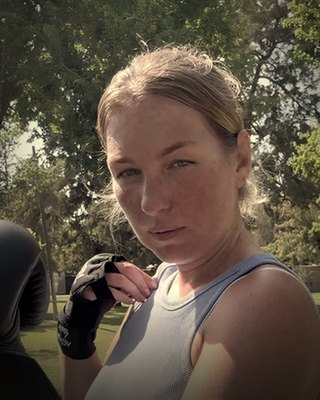
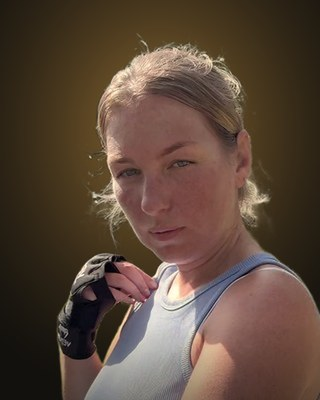
Reviews: all three trainees cut out onto the same dark background with a warm gold glow
Claude-Session: https://claude.ai/code/session_019R6qCBKgEvb3qXCynPtqmv

diff --git a/index.html b/index.html
@@ -26,9 +26,9 @@
   <link rel="apple-touch-icon" href="/apple-touch-icon.png">
   <link rel="preload" href="/fonts/heebo.woff" as="font" type="font/woff" crossorigin>
   <link rel="preload" href="/fonts/karantina-bold.woff" as="font" type="font/woff" crossorigin>
-  <link rel="stylesheet" href="/assets/site.css?v=79">
-  <script src="/config.js?v=79" defer></script>
-  <script src="/assets/site.js?v=79" defer></script>
+  <link rel="stylesheet" href="/assets/site.css?v=80">
+  <script src="/config.js?v=80" defer></script>
+  <script src="/assets/site.js?v=80" defer></script>
 <script type="application/ld+json">{"@context": "https://schema.org", "@type": ["SportsActivityLocation", "LocalBusiness"], "name": "BoxingRise", "description": "אימון אגרוף אישי לנשים, אחד על אחד, בפארקים בתל אביב והמרכז. בלי ניסיון ובלי התחייבות. אימון ניסיון ב־49 ₪.", "url": "https://boxingrise.com/", "image": "https://boxingrise.com/media/og.jpg", "logo": "https://boxingrise.com/brand/icon-512.png", "telephone": "+972502734456", "priceRange": "₪₪", "founder": {"@type": "Person", "name": "Avi Anihovich", "alternateName": "Aviko"}, "areaServed": [{"@type": "City", "name": "Tel Aviv-Yafo"}, {"@type": "AdministrativeArea", "name": "Central District, Israel"}], "address": {"@type": "PostalAddress", "addressLocality": "Tel Aviv-Yafo", "addressCountry": "IL"}, "geo": {"@type": "GeoCoordinates", "latitude": 32.0995, "longitude": 34.8137}, "sport": "Boxing", "inLanguage": "he", "paymentAccepted": "Cash, Bit, PayBox", "currenciesAccepted": "ILS", "makesOffer": {"@type": "Offer", "name": "אימון ניסיון", "price": "49", "priceCurrency": "ILS"}}</script>
 </head>
 <body class="home">
@@ -47,7 +47,7 @@
 <main id="main">
   <section class="hero" aria-labelledby="hero-h">
     <div class="hero-media" aria-hidden="true">
-      <video class="hero-video" autoplay muted loop playsinline preload="metadata" poster="/media/hero-mont-m.jpg?v=79" data-poster-wide="/media/hero-mont-w.jpg?v=79"><source src="/media/hero-mont-m.mp4?v=79" type="video/mp4" media="(max-width: 999px)"><source src="/media/hero-mont-w.mp4?v=79" type="video/mp4"></video>
+      <video class="hero-video" autoplay muted loop playsinline preload="metadata" poster="/media/hero-mont-m.jpg?v=80" data-poster-wide="/media/hero-mont-w.jpg?v=80"><source src="/media/hero-mont-m.mp4?v=80" type="video/mp4" media="(max-width: 999px)"><source src="/media/hero-mont-w.mp4?v=80" type="video/mp4"></video>
       <div class="hero-shade"></div>
       <div class="hero-fx"></div>
     </div>
@@ -66,7 +66,7 @@
         <div><p class="lead">אגרוף קלאסי, כמו שמתאמנים בו באמת: עבודה על כריות, תנועת רגליים ושמירה. כל אימון נבנה במיוחד בשבילך, לפי הרמה והקצב שלך.</p><dl class="facts reveal"><div class="fact"><dt>אישי לגמרי</dt><dd><span class="num" data-count="1:1" dir="ltr">1:1</span></dd></div><div class="fact"><dt>דקות לאימון</dt><dd><span class="num" data-count="60" dir="ltr">60</span></dd></div><div class="fact"><dt>ניסיון נדרש</dt><dd><span class="num" data-count="0" dir="ltr">0</span></dd></div></dl></div>
       </div>
       <h3 class="h3 rounds-h">ככה נראית שעה איתי</h3>
-      <ol class="rounds" tabindex="0" aria-label="ככה נראית שעה איתי"><li class="round"><figure><video class="round-img js-clip" muted loop playsinline preload="none" poster="/media/clip-technique.jpg?v=79" width="480" height="600" aria-label="המתאמנת והמאמן עומדים זה מול זה בעמידת אגרוף"><source src="/media/clip-technique.mp4?v=79" type="video/mp4"></video><figcaption><h4>טכניקה</h4><p>לומדים לעמוד בשמירה ולזוז נכון, עוד לפני המכה הראשונה. בקצב שלך, עם תיקון בזמן אמת.</p></figcaption></figure></li><li class="round"><figure><video class="round-img js-clip" muted loop playsinline preload="none" poster="/media/clip-power.jpg?v=79" width="480" height="600" aria-label="המתאמנת עושה שכיבות סמיכה על הדשא בפארק"><source src="/media/clip-power.mp4?v=79" type="video/mp4"></video><figcaption><h4>כוח וכושר</h4><p>שכיבות סמיכה ותרגילי כוח בין סבבי האגרוף. כאן הגוף מתחזק והדופק עולה.</p></figcaption></figure></li><li class="round"><figure><video class="round-img js-clip" muted loop playsinline preload="none" poster="/media/clip-pads.jpg?v=79" width="480" height="600" aria-label="עבודת כריות: המתאמנת מכה, המאמן מחזיק כריות"><source src="/media/clip-pads.mp4?v=79" type="video/mp4"></video><figcaption><h4>כריות</h4><p>מכות לכריות שהמאמן מחזיק, ומחברים אותן לקומבינציות. כאן זה מתחיל להרגיש כמו אגרוף.</p></figcaption></figure></li></ol>
+      <ol class="rounds" tabindex="0" aria-label="ככה נראית שעה איתי"><li class="round"><figure><video class="round-img js-clip" muted loop playsinline preload="none" poster="/media/clip-technique.jpg?v=80" width="480" height="600" aria-label="המתאמנת והמאמן עומדים זה מול זה בעמידת אגרוף"><source src="/media/clip-technique.mp4?v=80" type="video/mp4"></video><figcaption><h4>טכניקה</h4><p>לומדים לעמוד בשמירה ולזוז נכון, עוד לפני המכה הראשונה. בקצב שלך, עם תיקון בזמן אמת.</p></figcaption></figure></li><li class="round"><figure><video class="round-img js-clip" muted loop playsinline preload="none" poster="/media/clip-power.jpg?v=80" width="480" height="600" aria-label="המתאמנת עושה שכיבות סמיכה על הדשא בפארק"><source src="/media/clip-power.mp4?v=80" type="video/mp4"></video><figcaption><h4>כוח וכושר</h4><p>שכיבות סמיכה ותרגילי כוח בין סבבי האגרוף. כאן הגוף מתחזק והדופק עולה.</p></figcaption></figure></li><li class="round"><figure><video class="round-img js-clip" muted loop playsinline preload="none" poster="/media/clip-pads.jpg?v=80" width="480" height="600" aria-label="עבודת כריות: המתאמנת מכה, המאמן מחזיק כריות"><source src="/media/clip-pads.mp4?v=80" type="video/mp4"></video><figcaption><h4>כריות</h4><p>מכות לכריות שהמאמן מחזיק, ומחברים אותן לקומבינציות. כאן זה מתחיל להרגיש כמו אגרוף.</p></figcaption></figure></li></ol>
     </div>
   </section>
 
@@ -78,7 +78,7 @@
     </div>
   </section>
 
-  <section class="sec reviews" id="reviews" aria-labelledby="rv-h"><div class="wrap"><p class="tag">הן כבר התחילו</p><h2 class="h2" id="rv-h">ככה הן <span class="g">יוצאות מהאימון.</span></h2><div class="rv-grid"><figure class="rv"><img class="rv-photo" src="/media/review-victoria.jpg?v=79" alt="ויקטוריה" width="320" height="400" loading="lazy"><div class="rv-body"><blockquote><p class="rv-q">יצאתי ממנו עוצמתית, משוחררת ועם טעם של עוד.</p></blockquote><figcaption><b>ויקטוריה</b> · <span>התחילה בלי רקע</span></figcaption><details class="rv-more"><summary>להמלצה המלאה</summary><p>הגעתי בלי שום רקע ובלי ביטחון, וכבר באימון הראשון אבי גרם לי להרגיש הכי בנוח בעולם – יצאתי ממנו עוצמתית, משוחררת ועם טעם של עוד!</p></details></div></figure><figure class="rv"><img class="rv-photo" src="/media/review-maria.jpg?v=79" alt="מריה" width="320" height="400" loading="lazy"><div class="rv-body"><blockquote><p class="rv-q">האימונים האישיים עם אבי הביאו אותי לכושר ולחיטוב הכי חזק שהייתי בהם.</p></blockquote><figcaption><b>מריה</b> · <span>אחרי שנים בחדרי כושר</span></figcaption><details class="rv-more"><summary>להמלצה המלאה</summary><p>אחרי שנים בחדרי כושר, האימונים האישיים עם אבי הביאו אותי לכושר ולחיטוב הכי חזק שהייתי בהם – אנרגיה מטורפת וסבלנות מקצועית שאין כמותה.</p></details></div></figure><figure class="rv"><img class="rv-photo" src="/media/review-neta.jpg?v=79" alt="נטע" width="320" height="400" loading="lazy"><div class="rv-body"><blockquote><p class="rv-q">הזמן היחיד ביום שבו אני משחררת את כל הסטרס.</p></blockquote><figcaption><b>נטע</b> · <span>מגיעה לפרוק את השבוע</span></figcaption><details class="rv-more"><summary>להמלצה המלאה</summary><p>שעת אימון אצל אבי היא הזמן היחיד ביום שבו אני משחררת את כל הסטרס, מתנתקת מהעולם וחוזרת הביתה מחוזקת בראש ובגוף.</p></details></div></figure></div><div class="rv-foot reveal"><p>רוצה להרגיש ככה?</p><a class="btn btn-gold magnetic js-wa" href="https://wa.me/972502734456?text=%D7%94%D7%99%D7%99%20%D7%90%D7%91%D7%99%2C%20%D7%90%D7%A9%D7%9E%D7%97%20%D7%9C%D7%A7%D7%91%D7%95%D7%A2%20%D7%90%D7%99%D7%9E%D7%95%D7%9F%20%D7%A0%D7%99%D7%A1%D7%99%D7%95%D7%9F%20%D7%91-BoxingRise%20%2849%20%E2%82%AA%29" target="_blank" rel="noopener" ><span>לאימון ניסיון ב־49 ₪</span><span class="sr-only"> (נפתח בוואטסאפ)</span></a></div></div></section>
+  <section class="sec reviews" id="reviews" aria-labelledby="rv-h"><div class="wrap"><p class="tag">הן כבר התחילו</p><h2 class="h2" id="rv-h">ככה הן <span class="g">יוצאות מהאימון.</span></h2><div class="rv-grid"><figure class="rv"><img class="rv-photo" src="/media/review-victoria.jpg?v=80" alt="ויקטוריה" width="320" height="400" loading="lazy"><div class="rv-body"><blockquote><p class="rv-q">יצאתי ממנו עוצמתית, משוחררת ועם טעם של עוד.</p></blockquote><figcaption><b>ויקטוריה</b> · <span>התחילה בלי רקע</span></figcaption><details class="rv-more"><summary>להמלצה המלאה</summary><p>הגעתי בלי שום רקע ובלי ביטחון, וכבר באימון הראשון אבי גרם לי להרגיש הכי בנוח בעולם – יצאתי ממנו עוצמתית, משוחררת ועם טעם של עוד!</p></details></div></figure><figure class="rv"><img class="rv-photo" src="/media/review-maria.jpg?v=80" alt="מריה" width="320" height="400" loading="lazy"><div class="rv-body"><blockquote><p class="rv-q">האימונים האישיים עם אבי הביאו אותי לכושר ולחיטוב הכי חזק שהייתי בהם.</p></blockquote><figcaption><b>מריה</b> · <span>אחרי שנים בחדרי כושר</span></figcaption><details class="rv-more"><summary>להמלצה המלאה</summary><p>אחרי שנים בחדרי כושר, האימונים האישיים עם אבי הביאו אותי לכושר ולחיטוב הכי חזק שהייתי בהם – אנרגיה מטורפת וסבלנות מקצועית שאין כמותה.</p></details></div></figure><figure class="rv"><img class="rv-photo" src="/media/review-neta.jpg?v=80" alt="נטע" width="320" height="400" loading="lazy"><div class="rv-body"><blockquote><p class="rv-q">הזמן היחיד ביום שבו אני משחררת את כל הסטרס.</p></blockquote><figcaption><b>נטע</b> · <span>מגיעה לפרוק את השבוע</span></figcaption><details class="rv-more"><summary>להמלצה המלאה</summary><p>שעת אימון אצל אבי היא הזמן היחיד ביום שבו אני משחררת את כל הסטרס, מתנתקת מהעולם וחוזרת הביתה מחוזקת בראש ובגוף.</p></details></div></figure></div><div class="rv-foot reveal"><p>רוצה להרגיש ככה?</p><a class="btn btn-gold magnetic js-wa" href="https://wa.me/972502734456?text=%D7%94%D7%99%D7%99%20%D7%90%D7%91%D7%99%2C%20%D7%90%D7%A9%D7%9E%D7%97%20%D7%9C%D7%A7%D7%91%D7%95%D7%A2%20%D7%90%D7%99%D7%9E%D7%95%D7%9F%20%D7%A0%D7%99%D7%A1%D7%99%D7%95%D7%9F%20%D7%91-BoxingRise%20%2849%20%E2%82%AA%29" target="_blank" rel="noopener" ><span>לאימון ניסיון ב־49 ₪</span><span class="sr-only"> (נפתח בוואטסאפ)</span></a></div></div></section>
 
   <section class="sec about alt" id="about" aria-labelledby="about-h">
     <div class="grass" aria-hidden="true"></div>

diff --git a/en/index.html b/en/index.html
@@ -26,9 +26,9 @@
   <link rel="apple-touch-icon" href="/apple-touch-icon.png">
   <link rel="preload" href="/fonts/heebo.woff" as="font" type="font/woff" crossorigin>
   <link rel="preload" href="/fonts/karantina-bold.woff" as="font" type="font/woff" crossorigin>
-  <link rel="stylesheet" href="/assets/site.css?v=79">
-  <script src="/config.js?v=79" defer></script>
-  <script src="/assets/site.js?v=79" defer></script>
+  <link rel="stylesheet" href="/assets/site.css?v=80">
+  <script src="/config.js?v=80" defer></script>
+  <script src="/assets/site.js?v=80" defer></script>
 <script type="application/ld+json">{"@context": "https://schema.org", "@type": ["SportsActivityLocation", "LocalBusiness"], "name": "BoxingRise", "description": "Private one-on-one boxing for women in parks across Tel Aviv and central Israel. No experience, no commitment. Trial session 49 ILS.", "url": "https://boxingrise.com/en", "image": "https://boxingrise.com/media/og.jpg", "logo": "https://boxingrise.com/brand/icon-512.png", "telephone": "+972502734456", "priceRange": "₪₪", "founder": {"@type": "Person", "name": "Avi Anihovich", "alternateName": "Aviko"}, "areaServed": [{"@type": "City", "name": "Tel Aviv-Yafo"}, {"@type": "AdministrativeArea", "name": "Central District, Israel"}], "address": {"@type": "PostalAddress", "addressLocality": "Tel Aviv-Yafo", "addressCountry": "IL"}, "geo": {"@type": "GeoCoordinates", "latitude": 32.0995, "longitude": 34.8137}, "sport": "Boxing", "inLanguage": "en", "paymentAccepted": "Cash, Bit, PayBox", "currenciesAccepted": "ILS", "makesOffer": {"@type": "Offer", "name": "Trial session", "price": "49", "priceCurrency": "ILS"}}</script>
 </head>
 <body class="home">
@@ -47,7 +47,7 @@
 <main id="main">
   <section class="hero" aria-labelledby="hero-h">
     <div class="hero-media" aria-hidden="true">
-      <video class="hero-video" autoplay muted loop playsinline preload="metadata" poster="/media/hero-mont-m.jpg?v=79" data-poster-wide="/media/hero-mont-w.jpg?v=79"><source src="/media/hero-mont-m.mp4?v=79" type="video/mp4" media="(max-width: 999px)"><source src="/media/hero-mont-w.mp4?v=79" type="video/mp4"></video>
+      <video class="hero-video" autoplay muted loop playsinline preload="metadata" poster="/media/hero-mont-m.jpg?v=80" data-poster-wide="/media/hero-mont-w.jpg?v=80"><source src="/media/hero-mont-m.mp4?v=80" type="video/mp4" media="(max-width: 999px)"><source src="/media/hero-mont-w.mp4?v=80" type="video/mp4"></video>
       <div class="hero-shade"></div>
       <div class="hero-fx"></div>
     </div>
@@ -66,7 +66,7 @@
         <div><p class="lead">Classic boxing, the way it&#x27;s really trained: pad work, footwork and guard. Every session is built just for you, at your level and pace.</p><dl class="facts reveal"><div class="fact"><dt>fully personal</dt><dd><span class="num" data-count="1:1" dir="ltr">1:1</span></dd></div><div class="fact"><dt>minutes per session</dt><dd><span class="num" data-count="60" dir="ltr">60</span></dd></div><div class="fact"><dt>experience needed</dt><dd><span class="num" data-count="0" dir="ltr">0</span></dd></div></dl></div>
       </div>
       <h3 class="h3 rounds-h">What an hour with me looks like</h3>
-      <ol class="rounds" tabindex="0" aria-label="What an hour with me looks like"><li class="round"><figure><video class="round-img js-clip" muted loop playsinline preload="none" poster="/media/clip-technique.jpg?v=79" width="480" height="600" aria-label="The trainee and coach facing each other in boxing stance"><source src="/media/clip-technique.mp4?v=79" type="video/mp4"></video><figcaption><h4>Technique</h4><p>Learning to stand in guard and move right, before the first punch. At your pace, corrected in real time.</p></figcaption></figure></li><li class="round"><figure><video class="round-img js-clip" muted loop playsinline preload="none" poster="/media/clip-power.jpg?v=79" width="480" height="600" aria-label="The trainee doing push-ups on the grass in the park"><source src="/media/clip-power.mp4?v=79" type="video/mp4"></video><figcaption><h4>Strength &amp; fitness</h4><p>Push-ups and strength work between boxing rounds. This is where your body gets stronger.</p></figcaption></figure></li><li class="round"><figure><video class="round-img js-clip" muted loop playsinline preload="none" poster="/media/clip-pads.jpg?v=79" width="480" height="600" aria-label="Pad work: the trainee punches, the coach holds the pads"><source src="/media/clip-pads.mp4?v=79" type="video/mp4"></video><figcaption><h4>Pads</h4><p>Punches into the pads I hold, built into combinations. This is where it starts to feel like boxing.</p></figcaption></figure></li></ol>
+      <ol class="rounds" tabindex="0" aria-label="What an hour with me looks like"><li class="round"><figure><video class="round-img js-clip" muted loop playsinline preload="none" poster="/media/clip-technique.jpg?v=80" width="480" height="600" aria-label="The trainee and coach facing each other in boxing stance"><source src="/media/clip-technique.mp4?v=80" type="video/mp4"></video><figcaption><h4>Technique</h4><p>Learning to stand in guard and move right, before the first punch. At your pace, corrected in real time.</p></figcaption></figure></li><li class="round"><figure><video class="round-img js-clip" muted loop playsinline preload="none" poster="/media/clip-power.jpg?v=80" width="480" height="600" aria-label="The trainee doing push-ups on the grass in the park"><source src="/media/clip-power.mp4?v=80" type="video/mp4"></video><figcaption><h4>Strength &amp; fitness</h4><p>Push-ups and strength work between boxing rounds. This is where your body gets stronger.</p></figcaption></figure></li><li class="round"><figure><video class="round-img js-clip" muted loop playsinline preload="none" poster="/media/clip-pads.jpg?v=80" width="480" height="600" aria-label="Pad work: the trainee punches, the coach holds the pads"><source src="/media/clip-pads.mp4?v=80" type="video/mp4"></video><figcaption><h4>Pads</h4><p>Punches into the pads I hold, built into combinations. This is where it starts to feel like boxing.</p></figcaption></figure></li></ol>
     </div>
   </section>
 
@@ -78,7 +78,7 @@
     </div>
   </section>
 
-  <section class="sec reviews" id="reviews" aria-labelledby="rv-h"><div class="wrap"><p class="tag">They already started</p><h2 class="h2" id="rv-h">This is how they <span class="g">leave a session.</span></h2><div class="rv-grid"><figure class="rv"><img class="rv-photo" src="/media/review-victoria.jpg?v=79" alt="Victoria" width="320" height="400" loading="lazy"><div class="rv-body"><blockquote><p class="rv-q">I walked out feeling powerful, free, and wanting more.</p></blockquote><figcaption><b>Victoria</b> · <span>Started with no background</span></figcaption><details class="rv-more"><summary>Read the full review</summary><p>I came with no background and no confidence, and from the very first session Avi made me feel completely at ease. I walked out feeling powerful, free, and wanting more!</p></details></div></figure><figure class="rv"><img class="rv-photo" src="/media/review-maria.jpg?v=79" alt="Maria" width="320" height="400" loading="lazy"><div class="rv-body"><blockquote><p class="rv-q">my private sessions with Avi got me into the fittest, most toned shape I&#x27;ve ever been in.</p></blockquote><figcaption><b>Maria</b> · <span>After years in gyms</span></figcaption><details class="rv-more"><summary>Read the full review</summary><p>After years in gyms, my private sessions with Avi got me into the fittest, most toned shape I&#x27;ve ever been in. Crazy energy and professional patience like no one else.</p></details></div></figure><figure class="rv"><img class="rv-photo" src="/media/review-neta.jpg?v=79" alt="Neta" width="320" height="400" loading="lazy"><div class="rv-body"><blockquote><p class="rv-q">the only time in my day when I let all the stress go.</p></blockquote><figcaption><b>Neta</b> · <span>Comes to let the week go</span></figcaption><details class="rv-more"><summary>Read the full review</summary><p>My hour of training with Avi is the only time in my day when I let all the stress go, disconnect from the world, and come home stronger in body and mind.</p></details></div></figure></div><div class="rv-foot reveal"><p>Want to feel like this?</p><a class="btn btn-gold magnetic js-wa" href="https://wa.me/972502734456?text=Hi%20Avi%2C%20I%27d%20like%20to%20book%20a%20BoxingRise%20trial%20session%20%2849%20ILS%29" target="_blank" rel="noopener" ><span>Book a trial for 49 ₪</span><span class="sr-only"> (opens WhatsApp)</span></a></div></div></section>
+  <section class="sec reviews" id="reviews" aria-labelledby="rv-h"><div class="wrap"><p class="tag">They already started</p><h2 class="h2" id="rv-h">This is how they <span class="g">leave a session.</span></h2><div class="rv-grid"><figure class="rv"><img class="rv-photo" src="/media/review-victoria.jpg?v=80" alt="Victoria" width="320" height="400" loading="lazy"><div class="rv-body"><blockquote><p class="rv-q">I walked out feeling powerful, free, and wanting more.</p></blockquote><figcaption><b>Victoria</b> · <span>Started with no background</span></figcaption><details class="rv-more"><summary>Read the full review</summary><p>I came with no background and no confidence, and from the very first session Avi made me feel completely at ease. I walked out feeling powerful, free, and wanting more!</p></details></div></figure><figure class="rv"><img class="rv-photo" src="/media/review-maria.jpg?v=80" alt="Maria" width="320" height="400" loading="lazy"><div class="rv-body"><blockquote><p class="rv-q">my private sessions with Avi got me into the fittest, most toned shape I&#x27;ve ever been in.</p></blockquote><figcaption><b>Maria</b> · <span>After years in gyms</span></figcaption><details class="rv-more"><summary>Read the full review</summary><p>After years in gyms, my private sessions with Avi got me into the fittest, most toned shape I&#x27;ve ever been in. Crazy energy and professional patience like no one else.</p></details></div></figure><figure class="rv"><img class="rv-photo" src="/media/review-neta.jpg?v=80" alt="Neta" width="320" height="400" loading="lazy"><div class="rv-body"><blockquote><p class="rv-q">the only time in my day when I let all the stress go.</p></blockquote><figcaption><b>Neta</b> · <span>Comes to let the week go</span></figcaption><details class="rv-more"><summary>Read the full review</summary><p>My hour of training with Avi is the only time in my day when I let all the stress go, disconnect from the world, and come home stronger in body and mind.</p></details></div></figure></div><div class="rv-foot reveal"><p>Want to feel like this?</p><a class="btn btn-gold magnetic js-wa" href="https://wa.me/972502734456?text=Hi%20Avi%2C%20I%27d%20like%20to%20book%20a%20BoxingRise%20trial%20session%20%2849%20ILS%29" target="_blank" rel="noopener" ><span>Book a trial for 49 ₪</span><span class="sr-only"> (opens WhatsApp)</span></a></div></div></section>
 
   <section class="sec about alt" id="about" aria-labelledby="about-h">
     <div class="grass" aria-hidden="true"></div>

diff --git a/accessibility.html b/accessibility.html
@@ -27,9 +27,9 @@
   <link rel="apple-touch-icon" href="/apple-touch-icon.png">
   <link rel="preload" href="/fonts/heebo.woff" as="font" type="font/woff" crossorigin>
   <link rel="preload" href="/fonts/karantina-bold.woff" as="font" type="font/woff" crossorigin>
-  <link rel="stylesheet" href="/assets/site.css?v=79">
-  <script src="/config.js?v=79" defer></script>
-  <script src="/assets/site.js?v=79" defer></script>
+  <link rel="stylesheet" href="/assets/site.css?v=80">
+  <script src="/config.js?v=80" defer></script>
+  <script src="/assets/site.js?v=80" defer></script>
 </head>
 <body class="legal">
 <a class="skip" href="#main">דילוג לתוכן</a>

diff --git a/cancellation.html b/cancellation.html
@@ -27,9 +27,9 @@
   <link rel="apple-touch-icon" href="/apple-touch-icon.png">
   <link rel="preload" href="/fonts/heebo.woff" as="font" type="font/woff" crossorigin>
   <link rel="preload" href="/fonts/karantina-bold.woff" as="font" type="font/woff" crossorigin>
-  <link rel="stylesheet" href="/assets/site.css?v=79">
-  <script src="/config.js?v=79" defer></script>
-  <script src="/assets/site.js?v=79" defer></script>
+  <link rel="stylesheet" href="/assets/site.css?v=80">
+  <script src="/config.js?v=80" defer></script>
+  <script src="/assets/site.js?v=80" defer></script>
 </head>
 <body class="legal">
 <a class="skip" href="#main">דילוג לתוכן</a>

diff --git a/health.html b/health.html
@@ -27,9 +27,9 @@
   <link rel="apple-touch-icon" href="/apple-touch-icon.png">
   <link rel="preload" href="/fonts/heebo.woff" as="font" type="font/woff" crossorigin>
   <link rel="preload" href="/fonts/karantina-bold.woff" as="font" type="font/woff" crossorigin>
-  <link rel="stylesheet" href="/assets/site.css?v=79">
-  <script src="/config.js?v=79" defer></script>
-  <script src="/assets/site.js?v=79" defer></script>
+  <link rel="stylesheet" href="/assets/site.css?v=80">
+  <script src="/config.js?v=80" defer></script>
+  <script src="/assets/site.js?v=80" defer></script>
 </head>
 <body class="legal">
 <a class="skip" href="#main">דילוג לתוכן</a>

diff --git a/privacy.html b/privacy.html
@@ -27,9 +27,9 @@
   <link rel="apple-touch-icon" href="/apple-touch-icon.png">
   <link rel="preload" href="/fonts/heebo.woff" as="font" type="font/woff" crossorigin>
   <link rel="preload" href="/fonts/karantina-bold.woff" as="font" type="font/woff" crossorigin>
-  <link rel="stylesheet" href="/assets/site.css?v=79">
-  <script src="/config.js?v=79" defer></script>
-  <script src="/assets/site.js?v=79" defer></script>
+  <link rel="stylesheet" href="/assets/site.css?v=80">
+  <script src="/config.js?v=80" defer></script>
+  <script src="/assets/site.js?v=80" defer></script>
 </head>
 <body class="legal">
 <a class="skip" href="#main">דילוג לתוכן</a>

diff --git a/terms.html b/terms.html
@@ -27,9 +27,9 @@
   <link rel="apple-touch-icon" href="/apple-touch-icon.png">
   <link rel="preload" href="/fonts/heebo.woff" as="font" type="font/woff" crossorigin>
   <link rel="preload" href="/fonts/karantina-bold.woff" as="font" type="font/woff" crossorigin>
-  <link rel="stylesheet" href="/assets/site.css?v=79">
-  <script src="/config.js?v=79" defer></script>
-  <script src="/assets/site.js?v=79" defer></script>
+  <link rel="stylesheet" href="/assets/site.css?v=80">
+  <script src="/config.js?v=80" defer></script>
+  <script src="/assets/site.js?v=80" defer></script>
 </head>
 <body class="legal">
 <a class="skip" href="#main">דילוג לתוכן</a>

diff --git a/en/accessibility.html b/en/accessibility.html
@@ -27,9 +27,9 @@
   <link rel="apple-touch-icon" href="/apple-touch-icon.png">
   <link rel="preload" href="/fonts/heebo.woff" as="font" type="font/woff" crossorigin>
   <link rel="preload" href="/fonts/karantina-bold.woff" as="font" type="font/woff" crossorigin>
-  <link rel="stylesheet" href="/assets/site.css?v=79">
-  <script src="/config.js?v=79" defer></script>
-  <script src="/assets/site.js?v=79" defer></script>
+  <link rel="stylesheet" href="/assets/site.css?v=80">
+  <script src="/config.js?v=80" defer></script>
+  <script src="/assets/site.js?v=80" defer></script>
 </head>
 <body class="legal">
 <a class="skip" href="#main">Skip to content</a>

diff --git a/en/cancellation.html b/en/cancellation.html
@@ -27,9 +27,9 @@
   <link rel="apple-touch-icon" href="/apple-touch-icon.png">
   <link rel="preload" href="/fonts/heebo.woff" as="font" type="font/woff" crossorigin>
   <link rel="preload" href="/fonts/karantina-bold.woff" as="font" type="font/woff" crossorigin>
-  <link rel="stylesheet" href="/assets/site.css?v=79">
-  <script src="/config.js?v=79" defer></script>
-  <script src="/assets/site.js?v=79" defer></script>
+  <link rel="stylesheet" href="/assets/site.css?v=80">
+  <script src="/config.js?v=80" defer></script>
+  <script src="/assets/site.js?v=80" defer></script>
 </head>
 <body class="legal">
 <a class="skip" href="#main">Skip to content</a>

diff --git a/en/health.html b/en/health.html
@@ -27,9 +27,9 @@
   <link rel="apple-touch-icon" href="/apple-touch-icon.png">
   <link rel="preload" href="/fonts/heebo.woff" as="font" type="font/woff" crossorigin>
   <link rel="preload" href="/fonts/karantina-bold.woff" as="font" type="font/woff" crossorigin>
-  <link rel="stylesheet" href="/assets/site.css?v=79">
-  <script src="/config.js?v=79" defer></script>
-  <script src="/assets/site.js?v=79" defer></script>
+  <link rel="stylesheet" href="/assets/site.css?v=80">
+  <script src="/config.js?v=80" defer></script>
+  <script src="/assets/site.js?v=80" defer></script>
 </head>
 <body class="legal">
 <a class="skip" href="#main">Skip to content</a>

diff --git a/en/privacy.html b/en/privacy.html
@@ -27,9 +27,9 @@
   <link rel="apple-touch-icon" href="/apple-touch-icon.png">
   <link rel="preload" href="/fonts/heebo.woff" as="font" type="font/woff" crossorigin>
   <link rel="preload" href="/fonts/karantina-bold.woff" as="font" type="font/woff" crossorigin>
-  <link rel="stylesheet" href="/assets/site.css?v=79">
-  <script src="/config.js?v=79" defer></script>
-  <script src="/assets/site.js?v=79" defer></script>
+  <link rel="stylesheet" href="/assets/site.css?v=80">
+  <script src="/config.js?v=80" defer></script>
+  <script src="/assets/site.js?v=80" defer></script>
 </head>
 <body class="legal">
 <a class="skip" href="#main">Skip to content</a>

diff --git a/en/terms.html b/en/terms.html
@@ -27,9 +27,9 @@
   <link rel="apple-touch-icon" href="/apple-touch-icon.png">
   <link rel="preload" href="/fonts/heebo.woff" as="font" type="font/woff" crossorigin>
   <link rel="preload" href="/fonts/karantina-bold.woff" as="font" type="font/woff" crossorigin>
-  <link rel="stylesheet" href="/assets/site.css?v=79">
-  <script src="/config.js?v=79" defer></script>
-  <script src="/assets/site.js?v=79" defer></script>
+  <link rel="stylesheet" href="/assets/site.css?v=80">
+  <script src="/config.js?v=80" defer></script>
+  <script src="/assets/site.js?v=80" defer></script>
 </head>
 <body class="legal">
 <a class="skip" href="#main">Skip to content</a>
